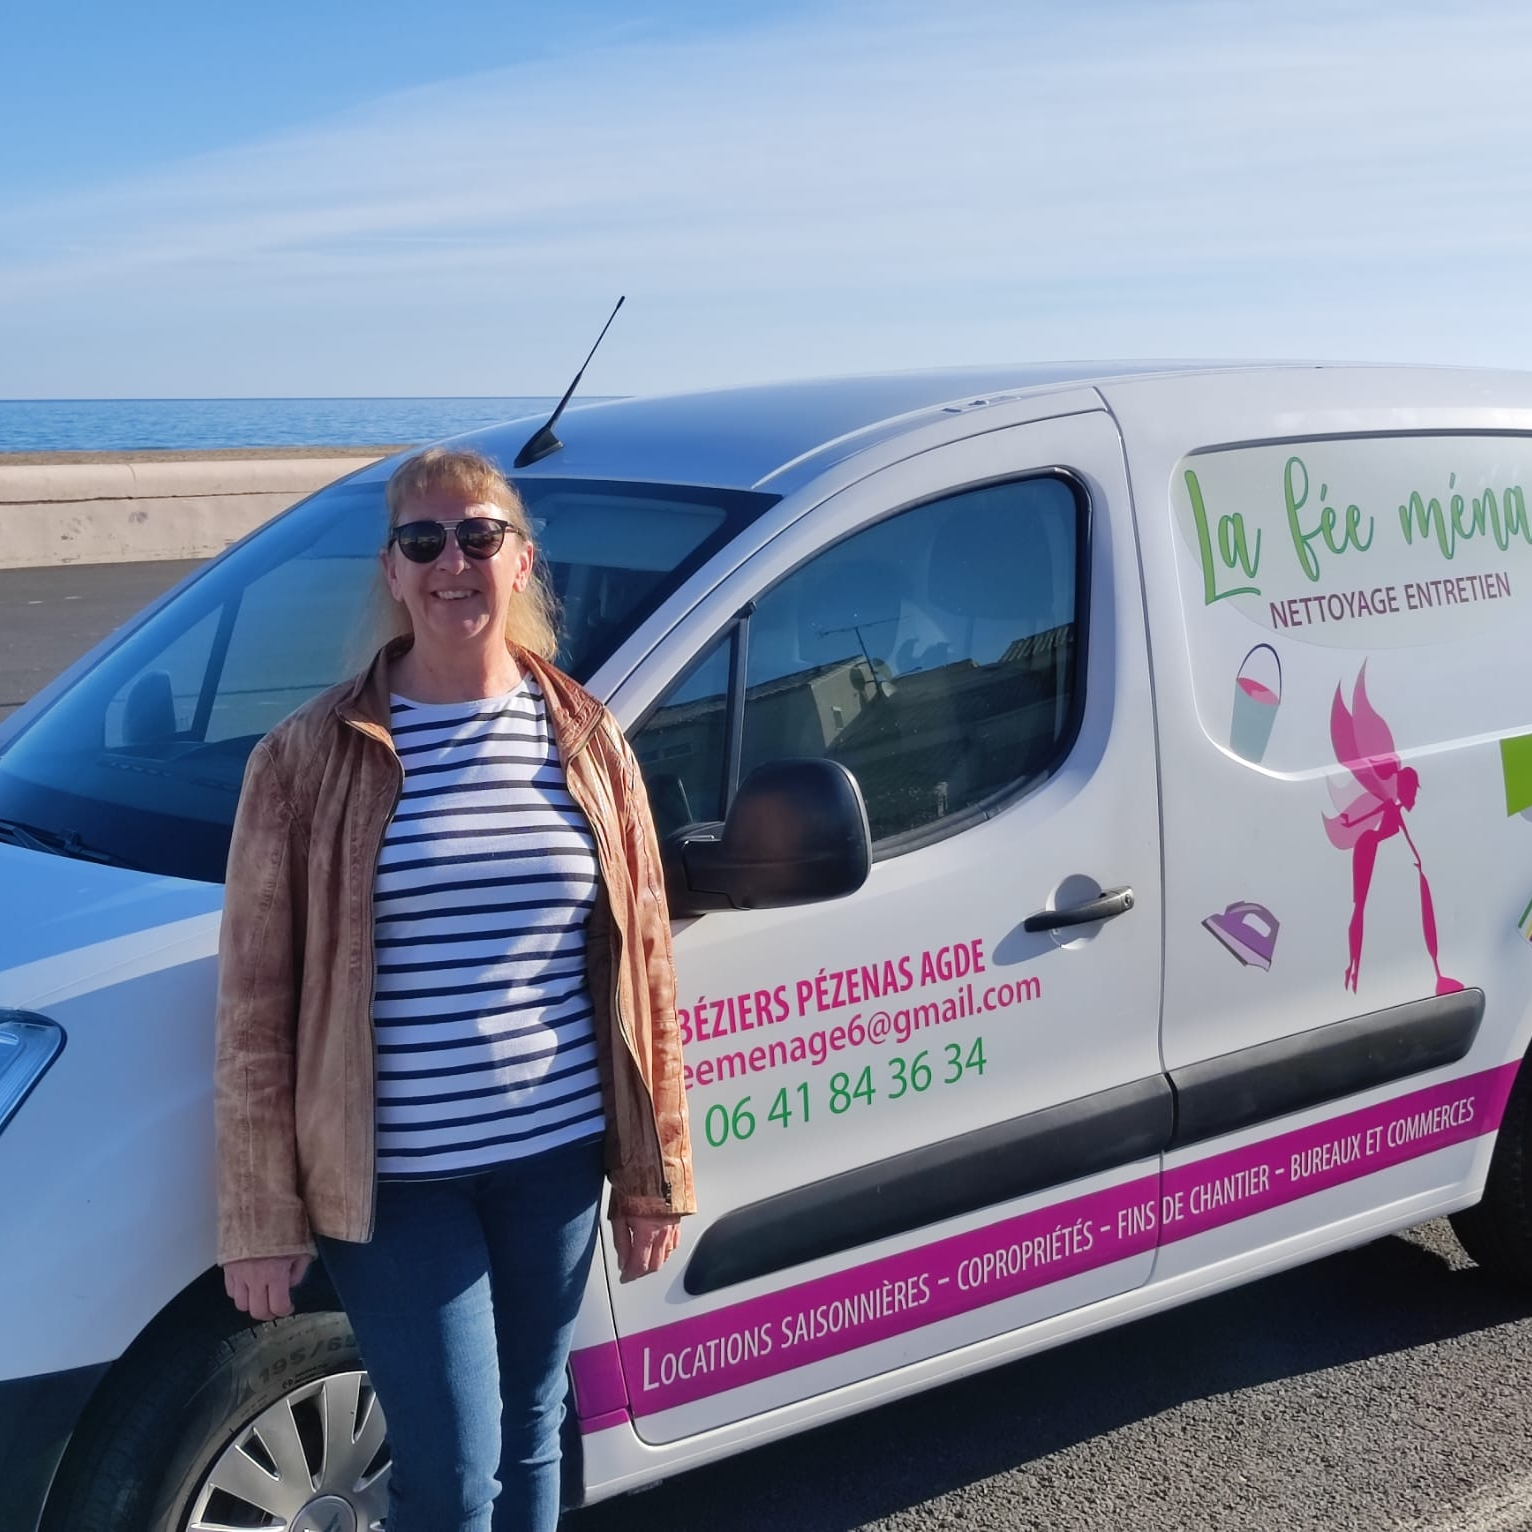
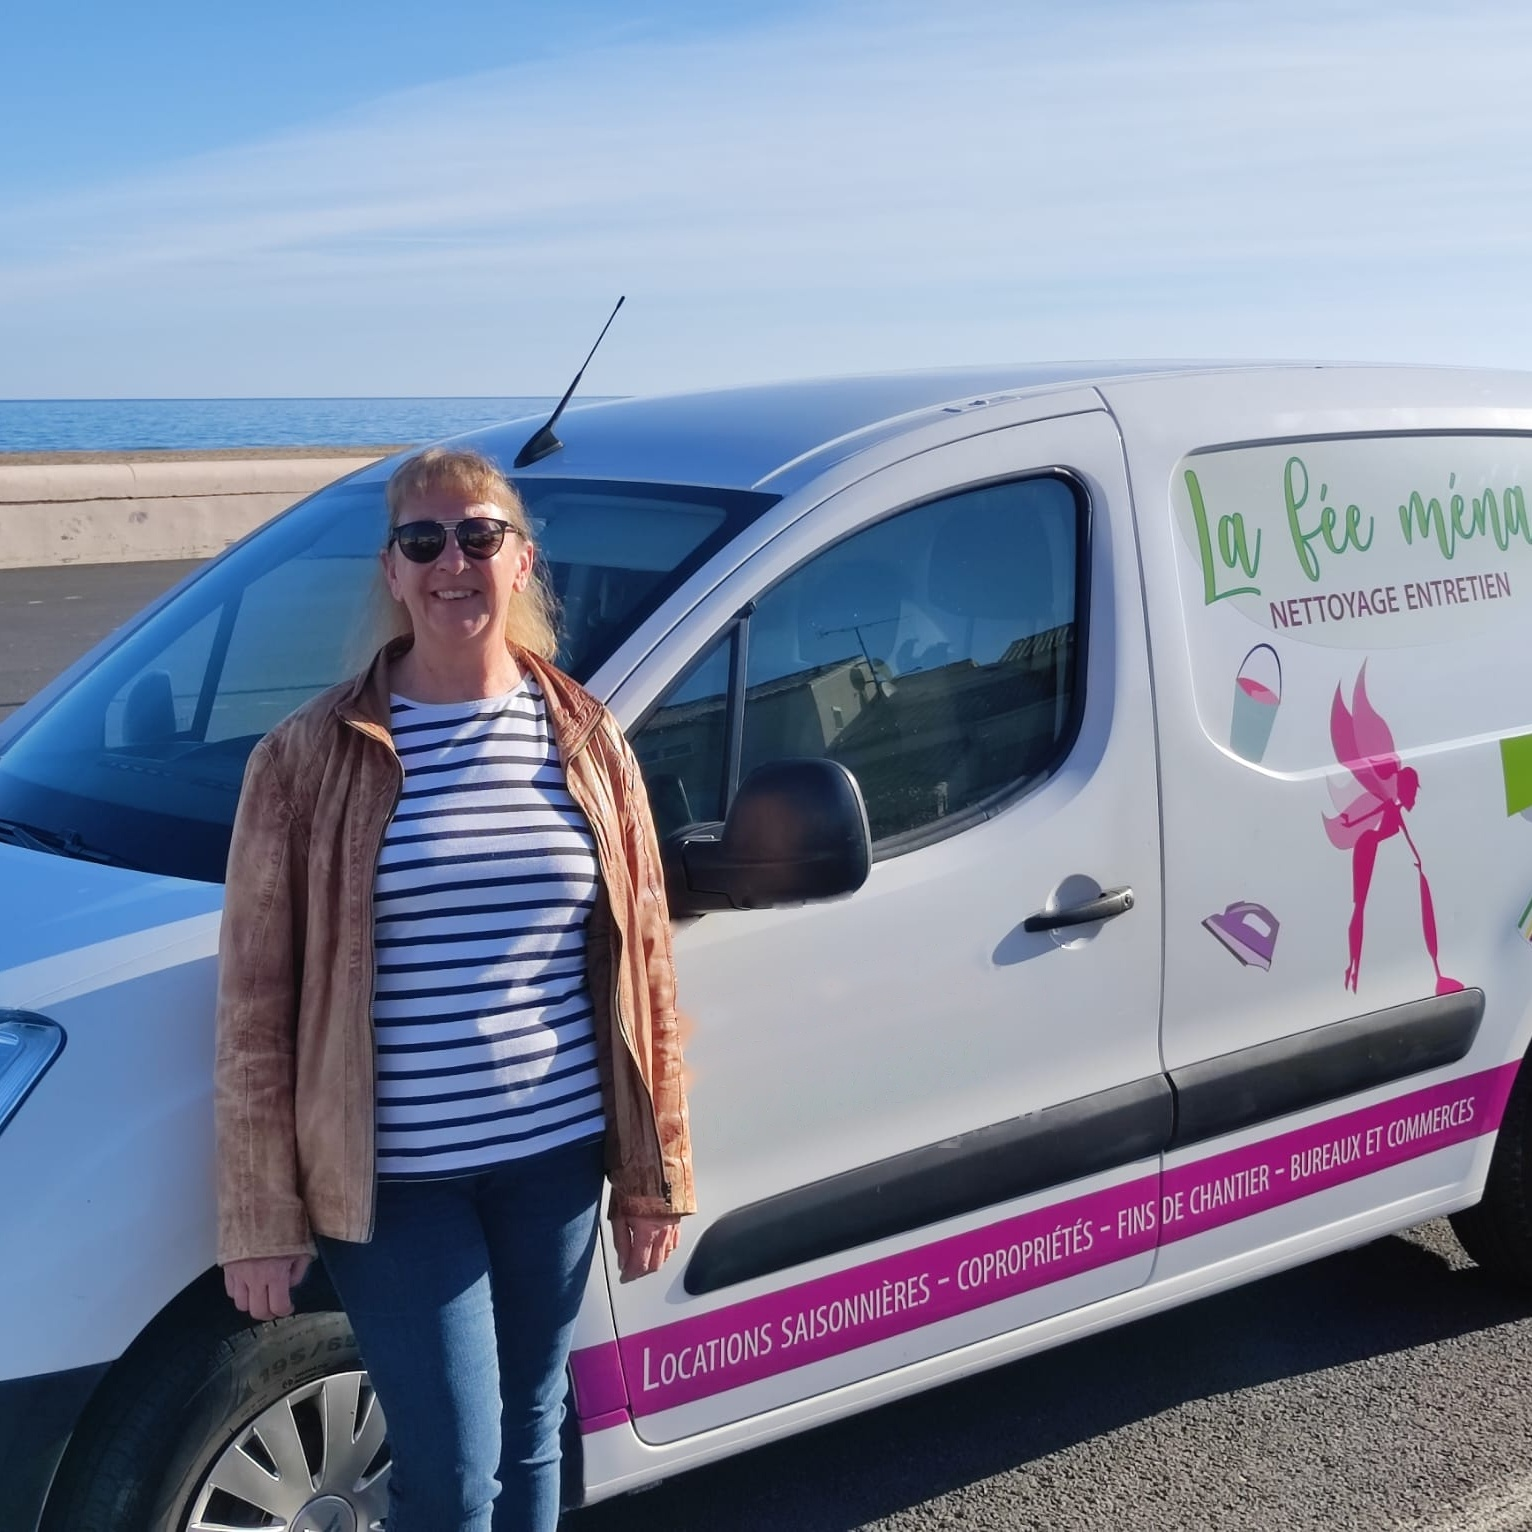
feat(media): remplace photo Florence par photo avec véhicule La Fée Ménage
- Nouvelle photo : Florence devant son van siglé, bord de mer en fond
- Met à jour og-accueil.jpg avec la même image (meilleure pour le partage social)
- Corrige les attributs width/height (1532x1532 carré au lieu de 600x800)
- Met à jour l'alt text pour décrire la nouvelle photo

Changed region(s): [[0.4295, 0.5829, 0.6749, 0.767]]

diff --git a/a-propos/index.html b/a-propos/index.html
@@ -96,9 +96,9 @@
           <div class="florence-photo-wrapper">
             <img
               src="/assets/images/florence-marionnel.jpg"
-              alt="Florence Marionnel, fondatrice de La Fée Ménage, entreprise de nettoyage dans le Morbihan"
-              width="600"
-              height="800"
+              alt="Florence Marionnel devant son véhicule La Fée Ménage, entreprise de nettoyage dans le Morbihan"
+              width="1532"
+              height="1532"
               loading="eager"
             >
           </div>
